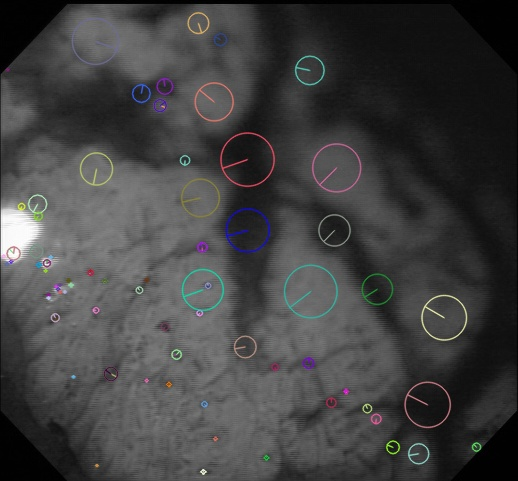
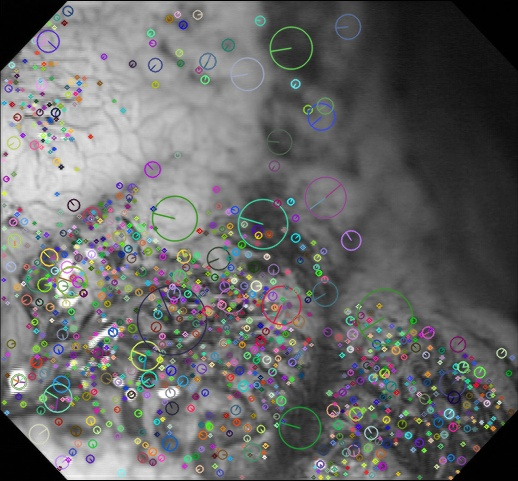
Check SIFT again with Abnormal Image

diff --git a/Data Preprocessing/sift.py b/Data Preprocessing/sift.py
@@ -85,8 +85,8 @@ if __name__ == '__main__':
 
     opt = parser.parse_args()
     
-    print("Example of original training img path: {}".format(opt.ori_train_files[0]))
-    print("Example of original testing img path: {}".format(opt.ori_test_files[1]))
+    print("Example of original training img path: {}".format(opt.ori_train_files[100]))
+    print("Example of original testing img path: {}".format(opt.ori_test_files[100]))
     print("SIFT Json Train file: {}".format(opt.target_sift_json_train_file))
     print("SIFT Json Test file: {}".format(opt.target_sift_json_test_file))
 
@@ -104,34 +104,34 @@ if __name__ == '__main__':
     #             _nfeatures = 0)
 
 
-    img = cv2.imread(opt.ori_train_files[0])
+    img = cv2.imread(opt.ori_train_files[100])
     gray = cv2.cvtColor(img,cv2.COLOR_BGR2GRAY)
     sift = cv2.SIFT_create()
     
     kp, des = sift.detectAndCompute(gray,None)
-    # img_keys=cv2.drawKeypoints(gray,kp,img,flags=cv2.DRAW_MATCHES_FLAGS_DRAW_RICH_KEYPOINTS)
-    # cv2.imwrite('Data Preprocessing/sift_keypoints.jpg',img_keys)
+    img_keys=cv2.drawKeypoints(gray,kp,img,flags=cv2.DRAW_MATCHES_FLAGS_DRAW_RICH_KEYPOINTS)
+    cv2.imwrite('Data Preprocessing/sift_invariant_check/sift_keypoints.jpg',img_keys)
 
-    # scale_percent = 60 
-    # width = int(img.shape[1] * scale_percent / 100)
-    # height = int(img.shape[0] * scale_percent / 100)
-    # dim = (width, height)
+    scale_percent = 60 
+    width = int(img.shape[1] * scale_percent / 100)
+    height = int(img.shape[0] * scale_percent / 100)
+    dim = (width, height)
   
-    # resized = cv2.resize(img, dim, interpolation = cv2.INTER_AREA)
-    # gray_resized = cv2.cvtColor(resized,cv2.COLOR_BGR2GRAY)
-    # gray_resized_kp, gray_resized_des = sift.detectAndCompute(gray_resized,None)
-    # resized_img_keys = cv2.drawKeypoints(gray_resized,gray_resized_kp,resized,flags=cv2.DRAW_MATCHES_FLAGS_DRAW_RICH_KEYPOINTS)
-    # cv2.imwrite('Data Preprocessing/resized_sift_keypoints.jpg',resized_img_keys)
+    resized = cv2.resize(img, dim, interpolation = cv2.INTER_AREA)
+    gray_resized = cv2.cvtColor(resized,cv2.COLOR_BGR2GRAY)
+    gray_resized_kp, gray_resized_des = sift.detectAndCompute(gray_resized,None)
+    resized_img_keys = cv2.drawKeypoints(gray_resized,gray_resized_kp,resized,flags=cv2.DRAW_MATCHES_FLAGS_DRAW_RICH_KEYPOINTS)
+    cv2.imwrite('Data Preprocessing/sift_invariant_check/resized_sift_keypoints.jpg',resized_img_keys)
 
     bf = cv2.BFMatcher()
-    # matches = bf.knnMatch(des,gray_resized_des,k=2)
+    matches = bf.knnMatch(des,gray_resized_des,k=2)
 
-    # good = []
-    # for m,n in matches:
-    #     if m.distance < 0.75*n.distance:
-    #         good.append([m])
-    # scaled_match = cv2.drawMatchesKnn(gray,kp,gray_resized,gray_resized_kp,good,None,flags=cv2.DrawMatchesFlags_NOT_DRAW_SINGLE_POINTS)
-    # cv2.imwrite('Data Preprocessing/scaledmatch_sift.jpg',scaled_match)
+    good = []
+    for m,n in matches:
+        if m.distance < 0.75*n.distance:
+            good.append([m])
+    scaled_match = cv2.drawMatchesKnn(gray,kp,gray_resized,gray_resized_kp,good,None,flags=cv2.DrawMatchesFlags_NOT_DRAW_SINGLE_POINTS)
+    cv2.imwrite('Data Preprocessing/sift_invariant_check/scaledmatch_sift.jpg',scaled_match)
 
     FLANN_INDEX_KDTREE = 1
     index_params = dict(algorithm = FLANN_INDEX_KDTREE, trees = 5)
@@ -139,61 +139,61 @@ if __name__ == '__main__':
     search_params = dict(checks=50)
     
     flann = cv2.FlannBasedMatcher(index_params,search_params)
-    # matches = flann.knnMatch(des,gray_resized_des,k=2)
+    matches = flann.knnMatch(des,gray_resized_des,k=2)
 
-    # matchesMask = [[0,0] for i in range(len(matches))]
+    matchesMask = [[0,0] for i in range(len(matches))]
 
-    # for i,(m,n) in enumerate(matches):
-    #     if m.distance < 0.7*n.distance:
-    #         matchesMask[i]=[1,0]
-    # draw_params = dict(matchColor = (0,255,0),
-    #                singlePointColor = (255,0,0),
-    #                matchesMask = matchesMask,
-    #                flags = cv2.DrawMatchesFlags_DEFAULT)
-    # scale_match_flann = cv2.drawMatchesKnn(gray,kp,gray_resized,gray_resized_kp,matches,None,**draw_params)
-    # cv2.imwrite('Data Preprocessing/scaledmatch_sift_flann.jpg',scale_match_flann)
+    for i,(m,n) in enumerate(matches):
+        if m.distance < 0.7*n.distance:
+            matchesMask[i]=[1,0]
+    draw_params = dict(matchColor = (0,255,0),
+                   singlePointColor = (255,0,0),
+                   matchesMask = matchesMask,
+                   flags = cv2.DrawMatchesFlags_DEFAULT)
+    scale_match_flann = cv2.drawMatchesKnn(gray,kp,gray_resized,gray_resized_kp,matches,None,**draw_params)
+    cv2.imwrite('Data Preprocessing/sift_invariant_check/scaledmatch_sift_flann.jpg',scale_match_flann)
 
-    # (h, w) = img.shape[:2]
-    # (cX, cY) = (w // 2, h // 2)
+    (h, w) = img.shape[:2]
+    (cX, cY) = (w // 2, h // 2)
     
-    # M = cv2.getRotationMatrix2D((cX, cY), -160, 1.0)
-    # rotated = cv2.warpAffine(img, M, (w, h))
-    # rotated_gray = cv2.cvtColor(rotated,cv2.COLOR_BGR2GRAY)
-    # gray_rotate_kp, gray_rotate_des = sift.detectAndCompute(rotated_gray,None)
-    # matches = bf.knnMatch(des,gray_rotate_des,k=2)
-
-    # good = []
-    # for m,n in matches:
-    #     if m.distance < 0.75*n.distance:
-    #         good.append([m])
-    # rotate_match = cv2.drawMatchesKnn(gray,kp,rotated_gray,gray_rotate_kp,good,None,flags=cv2.DrawMatchesFlags_NOT_DRAW_SINGLE_POINTS)
-    # cv2.imwrite('Data Preprocessing/rotatematch_sift.jpg',rotate_match)
-
-    # matches = flann.knnMatch(des,gray_rotate_des,k=2)
-
-    # matchesMask = [[0,0] for i in range(len(matches))]
-
-    # for i,(m,n) in enumerate(matches):
-    #     if m.distance < 0.7*n.distance:
-    #         matchesMask[i]=[1,0]
-    # draw_params = dict(matchColor = (0,255,0),
-    #                singlePointColor = (255,0,0),
-    #                matchesMask = matchesMask,
-    #                flags = cv2.DrawMatchesFlags_DEFAULT)
-    # rotatematch_flann = cv2.drawMatchesKnn(gray,kp,rotated_gray,gray_rotate_kp,matches,None,**draw_params)
-    # cv2.imwrite('Data Preprocessing/rotatematch_sift_flann.jpg',rotatematch_flann)
-
-    gray_cropped_image = gray[50:320, 110:370]
-    # cv2.imshow("cropped", cropped_image)
-    # cv2.waitKey(0)
-    crop_kp, crop_des = sift.detectAndCompute(gray_cropped_image, None)
-
-    matches = bf.knnMatch(des,crop_des,k=2)
+    M = cv2.getRotationMatrix2D((cX, cY), -160, 1.0)
+    rotated = cv2.warpAffine(img, M, (w, h))
+    rotated_gray = cv2.cvtColor(rotated,cv2.COLOR_BGR2GRAY)
+    gray_rotate_kp, gray_rotate_des = sift.detectAndCompute(rotated_gray,None)
+    matches = bf.knnMatch(des,gray_rotate_des,k=2)
 
     good = []
     for m,n in matches:
         if m.distance < 0.75*n.distance:
             good.append([m])
-    cropped_match = cv2.drawMatchesKnn(gray,kp,gray_cropped_image,crop_kp,good,None,flags=cv2.DrawMatchesFlags_DEFAULT)
-    cv2.imwrite('Data Preprocessing/sift_invariant_check/croppedmatch_sift.jpg',cropped_match)
+    rotate_match = cv2.drawMatchesKnn(gray,kp,rotated_gray,gray_rotate_kp,good,None,flags=cv2.DrawMatchesFlags_NOT_DRAW_SINGLE_POINTS)
+    cv2.imwrite('Data Preprocessing/sift_invariant_check/rotatematch_sift.jpg',rotate_match)
+
+    matches = flann.knnMatch(des,gray_rotate_des,k=2)
+
+    matchesMask = [[0,0] for i in range(len(matches))]
+
+    for i,(m,n) in enumerate(matches):
+        if m.distance < 0.7*n.distance:
+            matchesMask[i]=[1,0]
+    draw_params = dict(matchColor = (0,255,0),
+                   singlePointColor = (255,0,0),
+                   matchesMask = matchesMask,
+                   flags = cv2.DrawMatchesFlags_DEFAULT)
+    rotatematch_flann = cv2.drawMatchesKnn(gray,kp,rotated_gray,gray_rotate_kp,matches,None,**draw_params)
+    cv2.imwrite('Data Preprocessing/sift_invariant_check/rotatematch_sift_flann.jpg',rotatematch_flann)
+
+    # gray_cropped_image = gray[50:320, 110:370]
+    # cv2.imshow("cropped", cropped_image)
+    # cv2.waitKey(0)
+    # crop_kp, crop_des = sift.detectAndCompute(gray_cropped_image, None)
+
+    # matches = bf.knnMatch(des,crop_des,k=2)
+
+    # good = []
+    # for m,n in matches:
+    #     if m.distance < 0.75*n.distance:
+    #         good.append([m])
+    # cropped_match = cv2.drawMatchesKnn(gray,kp,gray_cropped_image,crop_kp,good,None,flags=cv2.DrawMatchesFlags_DEFAULT)
+    # cv2.imwrite('Data Preprocessing/sift_invariant_check/croppedmatch_sift.jpg',cropped_match)
 
